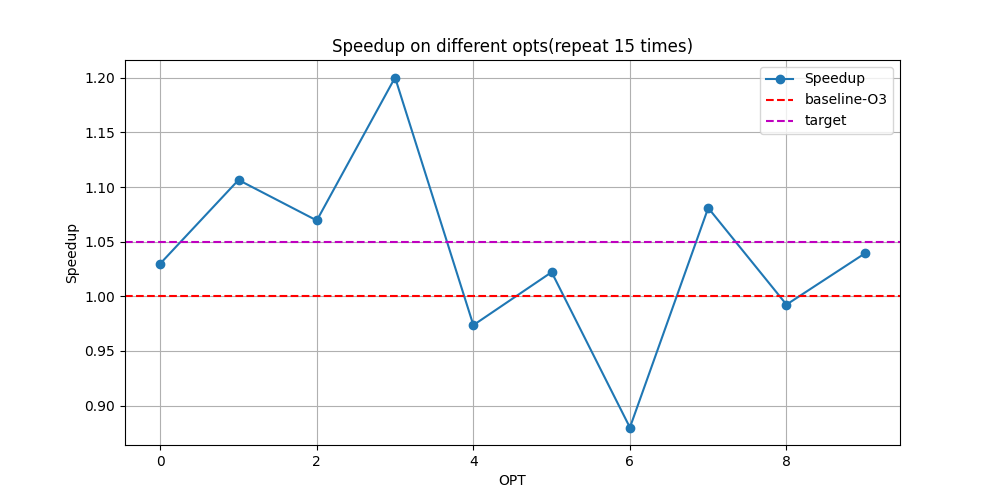
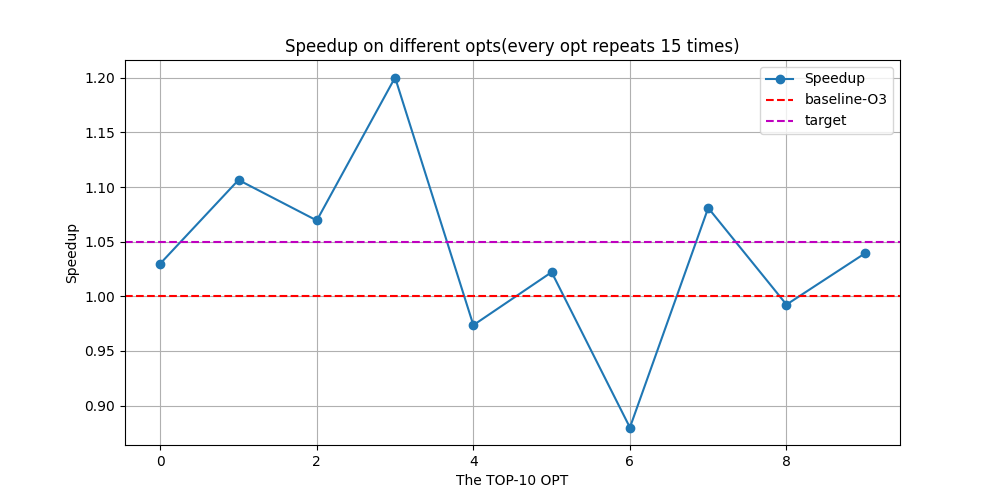
vault backup: 2025-03-26 16:30:58

Changed region(s): [[0.279, 0.06, 0.744, 0.12], [0.465, 0.93, 0.558, 0.99]]

diff --git a/工作记录/HW周报/2025年3月26日.md b/工作记录/HW周报/2025年3月26日.md
@@ -2,34 +2,39 @@
 ### 1. 全流程测试
 **模型介绍**：
 模型：二分类模型，模型在训练时未使用redis数据
-模型能力：'accuracy': 0.785, 'precision': 0.8659, 'recall': 0.7588, 'f1_score': 0.809, 'positive_ratio': 0.5988
+模型能力：'accuracy': 0.785, 'precision': 0.8659, 'recall': 0.7588, 'f1_score': 0.809（在opt交叉的情况下）
 预测使用opt来源：训练集中的opt，共1670条
-投票方式：以热点函数的执行时间作为weights，对预测置信度进行加权平均以此作为排名依据。
+投票方式：以热点函数的**执行时间**作为weights，对置信度进行加权平均以此作为排名依据，选出TOP-10
 
 **搜索方式**
 随机搜索（但由于时间问题，并未开始搜索，只测试了`TOP-10` `OPT`）
 
 **测试结果**
-第一次测试：
-![[全流程测试结果.二分类模型.redis.png]]
-在`TOP-10`优化配置中，有4个超过target，7个超过baseline(O3).
-第二次测试：
-
-
-redis测试时浮动会很大:
+redis测试时浮动会很大(任务书中的指标是rps，这里使用1000000/rps即平均每个请求消耗时间，单位微秒):
 ![[redis测试.误差展示.png]]
+
 目前采用减小误差的方式是多次交替执行，逻辑如下
 ```python
 # repeat == 15
 for _ in range(repeat):
     opt_time += redis_management.test() #测试opt
     base_time += redis_management_base.test() #测试O3
+return base_time / opt_time
 ```
-但是由于测试的次数较多，测试十个opt大概耗时12h，不利于后续的搜索工作。
+
+第一次测试：
+![[全流程测试结果.二分类模型.redis.png]]
+在`TOP-10`优化配置中，有4个超过target，7个超过baseline(O3).
+
+第二次测试：
+![[全流程测试.误差分析.png]]
+
+但是由于测试的次数较多，测试十个opt大概耗时11-12h，不利于后续的搜索工作。
 ## 目前正在做
-1. 寻找关键优化标志，采用在**O0**的基础上开一个优化标志，看性能变化情况。（Q：是在 O3 的基础上关更好还是在 O0 的基础上开更好？）
+1. 寻找关键优化标志，采用在**O0**的基础上开一个优化标志，看性能变化情况。（Q：是在 **O3** 的基础上关优化标志更好还是在 **O0** 的基础上开更好？）
 2. 测试doris ,但是担心会影响到redis的测试，所以这部分还处于coding阶段。
 
 ## 下一步计划
-1. 二分类效果如果可以看，可以尝试一下多分类，提高精度。
-2. 现在的OPT来源是train，后续会使用random生成，对于非关键优化标志置为1，只对非优化标进行随机。
+1. 筛选出关键优化标志
+2. 尝试一下多分类，提高精度
+3. 现在的OPT来源是训练集，后续会使用random生成，对于非关键优化标志置为1，只对非优化标进行随机
